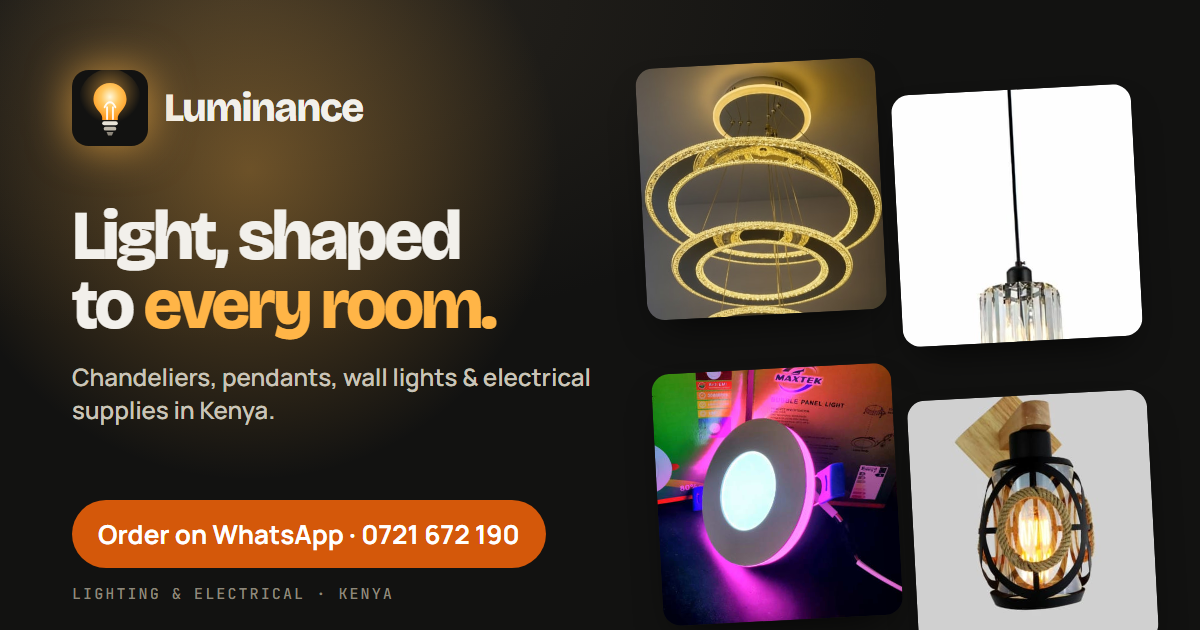
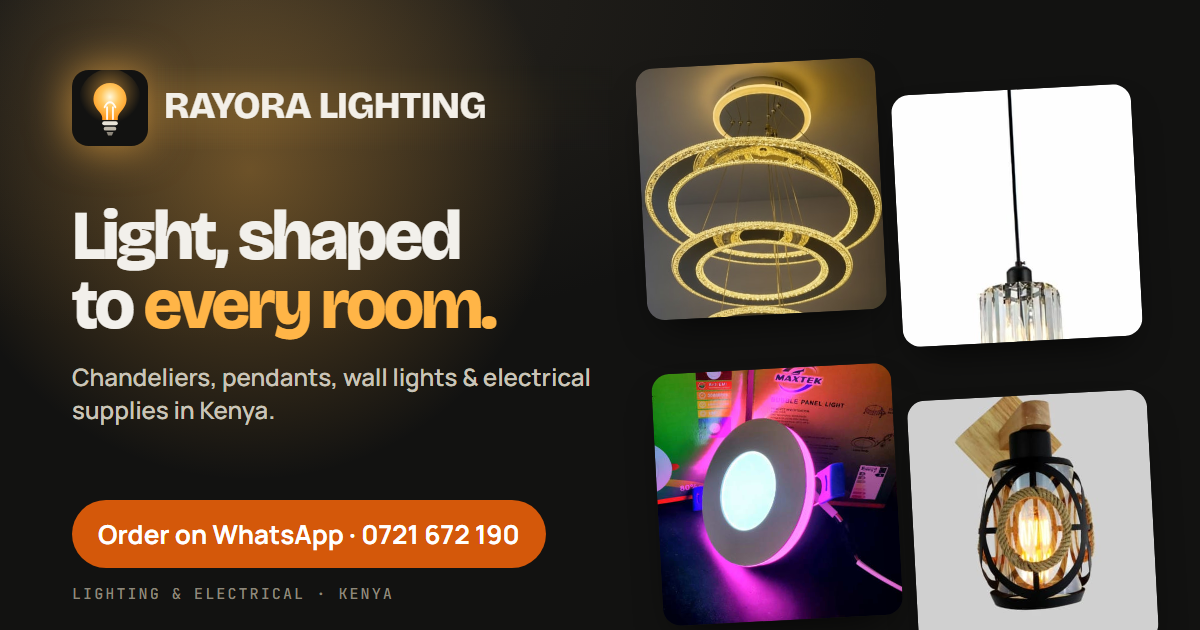
Rename the shop to RAYORA LIGHTING

Changed region(s): [[0.1233, 0.1508, 0.4008, 0.2111]]

diff --git a/src/lib/config.js b/src/lib/config.js
@@ -1,11 +1,11 @@
-// Luminance configuration.
+// RAYORA LIGHTING configuration.
 //
-// Luminance shows the same products and photos as the main catalogue, which it
+// RAYORA LIGHTING shows the same products and photos as the main catalogue, which it
 // READS ONLY from /otishub in the shared Firebase Realtime Database. It never
 // writes there: names, descriptions and photos can't be changed from this site.
 //
 // Its own prices are stored separately under /luminance/prices/<productId>.
-// Products without a Luminance price show the catalogue's price (or "Ask for price").
+// Products without a RAYORA LIGHTING price show the catalogue's price (or "Ask for price").
 //
 // The Firebase web config below is not a secret: browser apps always ship it.
 
@@ -19,11 +19,11 @@ export const firebaseConfig = {
   appId: "1:624369028287:web:d650c36385899f26490a0a"
 };
 
-export const SITE_NAME = "Luminance";
+export const SITE_NAME = "RAYORA LIGHTING";
 
 export const CATALOG_ROOT = "otishub";    // read-only: /otishub/products, /otishub/categories
 export const CATALOG_SITE_ID = "otis-hub"; // records in the shared catalogue carry this tag
-export const PRICES_ROOT = "luminance";    // Luminance's own data: /luminance/prices
+export const PRICES_ROOT = "luminance";    // RAYORA LIGHTING's own data: /luminance/prices
 
 // SHA-256 hashes of the admin password for the Prices page (only the hashes are stored, never the password).
 // To change it: node -e "console.log(require('crypto').createHash('sha256').update('NEW-PASSWORD').digest('hex'))"

diff --git a/index.html b/index.html
@@ -4,15 +4,15 @@
 <meta charset="utf-8">
 <meta name="viewport" content="width=device-width,initial-scale=1">
 <!--seo:head-->
-<title>Luminance — Lighting & Electrical Supplies in Kenya</title>
+<title>RAYORA LIGHTING — Lighting & Electrical Supplies in Kenya</title>
 <meta name="description" content="Shop chandeliers, pendant lights, wall lamps, LED panels, downlighters, bulbs, cables, switches, sockets and breakers in Kenya. See photos and prices, then order directly on WhatsApp.">
 <!--/seo:head-->
 <meta name="keywords" content="lights Kenya, lighting shop Kenya, electrical shop Kenya, electrical supplies Nairobi, chandeliers Kenya, pendant lights Kenya, wall lamps Kenya, LED panel lights Kenya, downlighters Kenya, bulbs Kenya, outdoor lights Kenya, cables and wires Kenya, switches and sockets Kenya, circuit breakers Kenya, electrical materials Kenya">
 <meta name="geo.region" content="KE">
 <meta name="geo.placename" content="Kenya">
 <meta name="theme-color" content="#121211">
-<meta name="application-name" content="Luminance">
-<meta name="apple-mobile-web-app-title" content="Luminance">
+<meta name="application-name" content="RAYORA LIGHTING">
+<meta name="apple-mobile-web-app-title" content="RAYORA LIGHTING">
 <link rel="icon" href="/favicon.svg" type="image/svg+xml">
 <link rel="icon" href="/favicon-32.png" sizes="32x32" type="image/png">
 <link rel="apple-touch-icon" href="/apple-touch-icon.png">

diff --git a/src/lib/useCatalog.js b/src/lib/useCatalog.js
@@ -23,12 +23,12 @@ async function fetchCatalogue() {
   return { cats, products };
 }
 
-// Catalogue (read only) + Luminance's own prices, merged and kept live.
+// Catalogue (read only) + RAYORA LIGHTING's own prices, merged and kept live.
 // Each product gets:
 //   basePrice — the catalogue's price (reference only)
-//   price     — what Luminance shows: its own price if set, otherwise the catalogue's
-//   oldPrice  — the catalogue's crossed-out price, only when Luminance hasn't set its own
-//   ownPrice  — true when the price comes from Luminance
+//   price     — what RAYORA LIGHTING shows: its own price if set, otherwise the catalogue's
+//   oldPrice  — the catalogue's crossed-out price, only when RAYORA LIGHTING hasn't set its own
+//   ownPrice  — true when the price comes from RAYORA LIGHTING
 export function useCatalog() {
   const [raw, setRaw] = useState({ status: "loading", cats: [], products: [] });
   const [prices, setPrices] = useState(null);

diff --git a/src/lib/db.js b/src/lib/db.js
@@ -1,6 +1,6 @@
 // Data layer.
 //   Catalogue (/otishub):          read only — there are deliberately no write functions for it.
-//   Prices    (/luminance/prices): Luminance's own prices, the only thing this site writes.
+//   Prices    (/luminance/prices): RAYORA LIGHTING's own prices, the only thing this site writes.
 import { initializeApp, getApps } from "firebase/app";
 import { getDatabase, ref, get, set, remove, onValue, serverTimestamp } from "firebase/database";
 import { firebaseConfig, CATALOG_ROOT, CATALOG_SITE_ID, PRICES_ROOT } from "./config.js";
@@ -17,7 +17,7 @@ export async function listCatalog(col) {
     .filter((d) => d.site === CATALOG_SITE_ID);
 }
 
-// ---------- Luminance prices ----------
+// ---------- RAYORA LIGHTING prices ----------
 // { [productKey]: { price: number, updatedAt } }
 export const priceKey = (productId) => productId.replace(/[.#$[\]/]/g, "_");
 

diff --git a/src/lib/seo.js b/src/lib/seo.js
@@ -5,7 +5,7 @@
 // With your own domain later, set SITE_URL to it and BASE_PATH to "/".
 export const SITE_URL = "https://otis-ke.github.io";
 export const BASE_PATH = "/keznet/";
-export const SITE_TITLE = "Luminance — Lighting & Electrical Supplies in Kenya";
+export const SITE_TITLE = "RAYORA LIGHTING — Lighting & Electrical Supplies in Kenya";
 export const SITE_DESCRIPTION =
   "Shop chandeliers, pendant lights, wall lamps, LED panels, downlighters, bulbs, cables, switches, sockets and breakers in Kenya. See photos and prices, then order directly on WhatsApp.";
 

diff --git a/src/prices/Prices.jsx b/src/prices/Prices.jsx
@@ -6,7 +6,7 @@ import { useCatalog } from "../lib/useCatalog.js";
 import { BASE_PATH, productPath } from "../lib/seo.js";
 import { BulbMark } from "../components/BulbMark.jsx";
 
-// Luminance's price list. Only prices can be changed here; everything else
+// RAYORA LIGHTING's price list. Only prices can be changed here; everything else
 // (names, photos, descriptions, categories) comes read-only from the catalogue.
 export default function Prices({ onLogout }) {
   const { status, cats, products, pricesLoaded } = useCatalog();

diff --git a/src/styles/style.css b/src/styles/style.css
@@ -316,7 +316,7 @@ svg { flex-shrink: 0; }
 }
 
 /* =========================================================
-   Luminance hero — ring chandelier with a working dimmer
+   RAYORA LIGHTING hero — ring chandelier with a working dimmer
    --lc: light colour (r, g, b)   --lv: light level 0..1
    ========================================================= */
 .lhero { --lc: 255, 196, 130; --lv: .85; justify-content: flex-end; background: radial-gradient(110% 80% at 72% 0%, #201d19 0%, #0e0e0d 62%); }

diff --git a/prices.html b/prices.html
@@ -4,7 +4,7 @@
 <meta charset="utf-8">
 <meta name="viewport" content="width=device-width,initial-scale=1">
 <meta name="robots" content="noindex,nofollow">
-<title>Luminance admin — Prices</title>
+<title>RAYORA LIGHTING admin — Prices</title>
 <link rel="icon" href="/favicon.svg" type="image/svg+xml">
 <link rel="preconnect" href="https://fonts.googleapis.com">
 <link rel="preconnect" href="https://fonts.gstatic.com" crossorigin>

diff --git a/src/shop/ProductDialog.jsx b/src/shop/ProductDialog.jsx
@@ -40,7 +40,7 @@ export default function ProductDialog({ p, catById, onClose }) {
   };
 
   const download = async () => {
-    const name = (slugify(p.name) || "luminance-product") + (cur ? `-view-${cur + 1}` : "");
+    const name = (slugify(p.name) || "rayora-lighting-product") + (cur ? `-view-${cur + 1}` : "");
     await downloadImage(views[cur].url, name);
     setSaved(true);
     setTimeout(() => setSaved(false), 1800);

diff --git a/src/prices/Gate.jsx b/src/prices/Gate.jsx
@@ -4,7 +4,7 @@ import { sha256 } from "../lib/util.js";
 import { BulbMark } from "../components/BulbMark.jsx";
 import { BASE_PATH } from "../lib/seo.js";
 
-// Password screen for the Luminance admin (prices only).
+// Password screen for the RAYORA LIGHTING admin (prices only).
 // The password is checked against SHA-256 hashes in config.js.
 const KEY = "luminance-admin";
 const ok = (h) => ADMIN_PASS_SHA256.includes(h);

diff --git a/src/shop/Hero.jsx b/src/shop/Hero.jsx
@@ -1,6 +1,6 @@
 import { useEffect, useRef, useState } from "react";
 
-// Luminance hero: a hanging three-ring chandelier with a working dimmer.
+// RAYORA LIGHTING hero: a hanging three-ring chandelier with a working dimmer.
 // Brightness drives the glow; warmth (colour temperature in kelvin) drives the colour.
 
 const MIN_K = 2700, MAX_K = 6500;

diff --git a/src/components/BulbMark.jsx b/src/components/BulbMark.jsx
@@ -1,4 +1,4 @@
-// The Luminance bulb logo (same drawing as public/favicon.svg, without the tile)
+// The RAYORA LIGHTING bulb logo (same drawing as public/favicon.svg, without the tile)
 export function BulbMark({ className = "" }) {
   return (
     <svg className={className} viewBox="0 0 64 64" aria-hidden="true">
